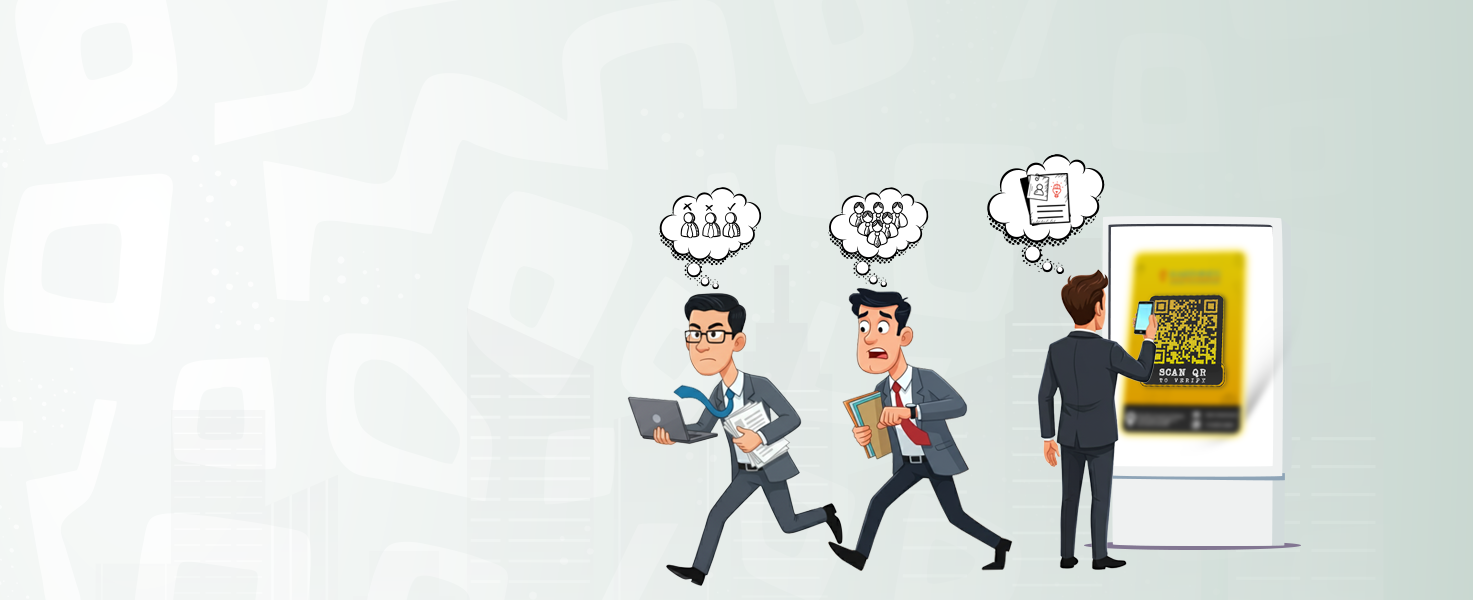
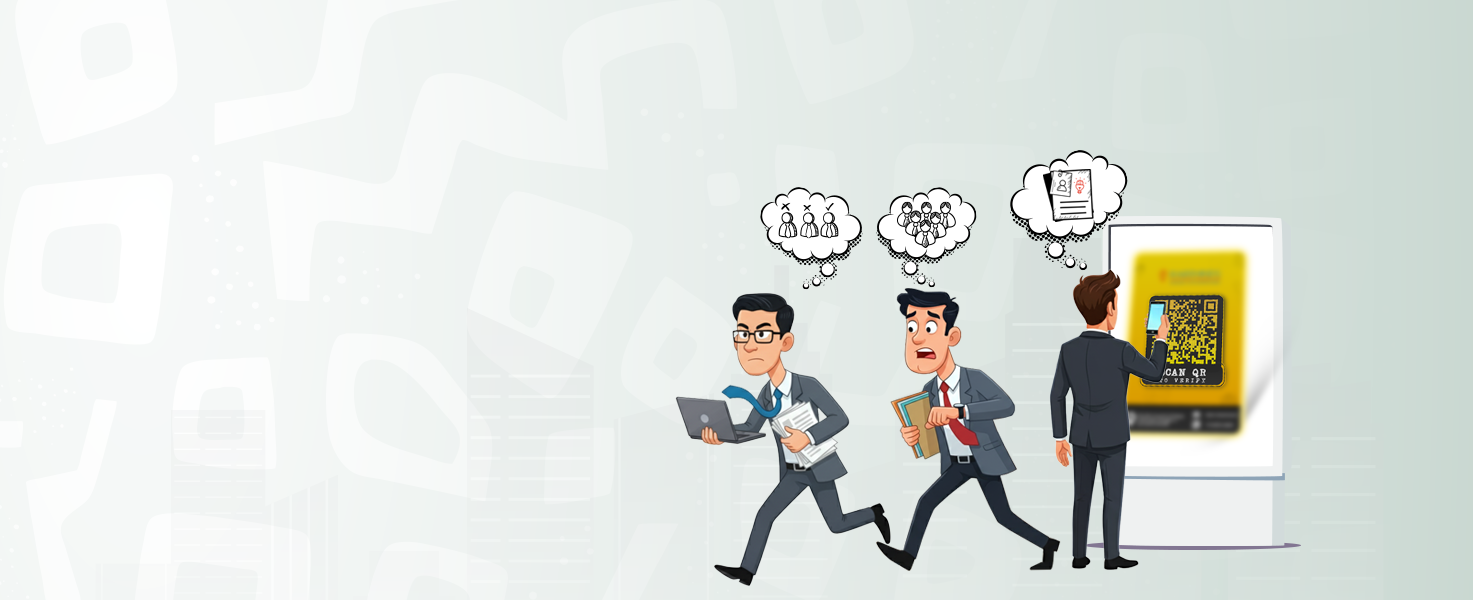
update WorkSection component with new images and layout adjustments

Changed region(s): [[0.406, 0.24, 0.8119, 0.99]]

diff --git a/src/pages/Corporate/Passport/components/WorkSection.tsx b/src/pages/Corporate/Passport/components/WorkSection.tsx
@@ -43,9 +43,8 @@ const StepBlock = ({
 
       {/* Text */}
       <div
-        className={`flex flex-col items-center text-center px-4 ${
-          reverse ? "md:order-2" : "md:order-1"
-        }`}
+        className={`flex flex-col items-center text-center px-4 ${reverse ? "md:order-2" : "md:order-1"
+          }`}
       >
         <h3 className="text-2xl md:text-3xl lg:text-4xl font-bold text-[#011938] mb-6">
           {title}
@@ -62,10 +61,10 @@ export default function WorkSection() {
   return (
     <section className="relative py-20">
       <div className="max-w-7xl mx-auto px-6 lg:px-12">
-         {/* Top Icon */}
+        {/* Top Icon */}
         <div className="flex justify-center mb-6">
           <div className="bg-[#000000] rounded-2xl w-12 h-12 flex items-center justify-center shadow-md">
-            <Workflow  className="text-white w-5 h-5" />
+            <Workflow className="text-white w-5 h-5" />
           </div>
         </div>
         {/* Heading */}
@@ -78,17 +77,38 @@ export default function WorkSection() {
           from learning to verification to employability.
         </p>
 
+        {/* SVG above Step 1 (only visible on md+) */}
+        <div className="hidden md:grid grid-cols-2 items-start md:-ml-8 lg:mr-[20px] lg:-mb-20 xl:-mb-28 md:pt-8 lg:pt-16">
+          <div className="flex justify-center">
+            <svg
+              width="63"
+              height="60"
+              viewBox="0 0 63 60"
+              fill="none"
+              xmlns="http://www.w3.org/2000/svg"
+              className="w-10 h-10 lg:w-12 lg:h-12"
+            >
+              <path d="M31.4439 59.7144C48.8099 59.7144 62.8879 46.3469 62.8879 29.8572C62.8879 13.3675 48.8099 0 31.4439 0C14.0779 0 0 13.3675 0 29.8572C0 46.3469 14.0779 59.7144 31.4439 59.7144Z" fill="black" />
+              <path d="M34.1951 24.5455V42H30.5047V28.0483H30.4025L26.4053 30.554V27.2812L30.7263 24.5455H34.1951Z" fill="white" />
+            </svg>
+          </div>
+          <div />
+        </div>
+
         {/* Step 1 */}
         <StepBlock
           title="Train & Assess"
           desc="Learners undergo structured training programs delivered by Rareminds or partner institutions. Each module includes industry-aligned assessments and project-based evaluations mapped to defined skill standards."
-          img={step1 as unknown as string}
+          img={step1}
         />
 
+
         {/* SVG 1: Between Step 1 & 2 */}
-        <div className="hidden md:flex justify-center md:-mt-10 lg:-mt-24">
-          <div className="relative w-full md:max-w-sm lg:max-w-xl">
-            <div style={{ paddingTop: `${(495 / 758) * 100}%` }} />
+        <div className="hidden md:flex justify-center md:-mt-5 lg:-mt-24">
+          <div className="relative mx-auto md:w-[450px] lg:w-[550px] xl:w-[650px]">
+            {/* Aspect ratio box */}
+            <div style={{ paddingTop: `71%` }} />
+
             <svg
               viewBox="0 0 758 495"
               fill="none"
@@ -97,48 +117,48 @@ export default function WorkSection() {
               className="absolute top-0 left-0 w-full h-full"
             >
               <path
-                d="M31.4439 59.7144C48.8099 59.7144 62.8879 46.3469 62.8879 29.8572C62.8879 13.3675 48.8099 0 31.4439 0C14.0779 0 0 13.3675 0 29.8572C0 46.3469 14.0779 59.7144 31.4439 59.7144Z"
-                fill="black"
-              />
-              <path
-                d="M34.1951 24.5455V42H30.5047V28.0483H30.4025L26.4053 30.554V27.2812L30.7263 24.5455H34.1951Z"
-                fill="white"
-              />
-              <path
-                d="M63 22.2507C87.203 10.9557 123.174 6.6091 161.12 57.3601C223.532 140.833 235.563 316.778 293.956 374.936C341.432 422.198 385.301 397.22 414.33 369.886C517.268 103.703 638.336 91.8267 701.415 291.647C707.944 312.339 715.131 337.929 722.046 370.957C729.716 407.627 734.718 442.247 738 469"
-                stroke="black"
-                strokeWidth="5"
-                strokeMiterlimit="10"
-                strokeDasharray="12 12"
-                vectorEffect="non-scaling-stroke"
-              />
-              <path
-                d="M744.742 492.637C751.227 492.637 756.483 487.346 756.483 480.819C756.483 474.291 751.227 469 744.742 469C738.257 469 733 474.291 733 480.819C733 487.346 738.257 492.637 744.742 492.637Z"
+                d="M13.7417 26.6373C20.2265 26.6373 25.4835 21.3459 25.4835 14.8186C25.4835 8.29139 20.2265 3 13.7417 3C7.25696 3 2 8.29139 2 14.8186C2 21.3459 7.25696 26.6373 13.7417 26.6373Z"
                 fill="white"
                 stroke="black"
                 strokeWidth="2.89"
                 strokeMiterlimit="10"
                 strokeDasharray="6.93 6.93"
-                vectorEffect="non-scaling-stroke"
+              />
+              <path
+                d="M700.444 516.714C717.81 516.714 731.888 503.347 731.888 486.857C731.888 470.368 717.81 457 700.444 457C683.078 457 669 470.368 669 486.857C669 503.347 683.078 516.714 700.444 516.714Z"
+                fill="black"
+              />
+              <path
+                d="M694.742 498.717V496.058L700.955 490.305C701.483 489.794 701.927 489.333 702.285 488.924C702.648 488.515 702.924 488.115 703.111 487.722C703.299 487.325 703.393 486.896 703.393 486.436C703.393 485.924 703.276 485.484 703.043 485.115C702.81 484.74 702.492 484.453 702.089 484.254C701.685 484.049 701.228 483.947 700.716 483.947C700.182 483.947 699.716 484.055 699.319 484.271C698.921 484.487 698.614 484.796 698.398 485.2C698.182 485.603 698.074 486.083 698.074 486.64H694.572C694.572 485.498 694.83 484.507 695.347 483.666C695.864 482.825 696.589 482.174 697.52 481.714C698.452 481.254 699.526 481.024 700.742 481.024C701.992 481.024 703.08 481.245 704.006 481.688C704.938 482.126 705.662 482.734 706.179 483.512C706.697 484.291 706.955 485.183 706.955 486.188C706.955 486.847 706.824 487.498 706.563 488.14C706.307 488.782 705.85 489.495 705.191 490.279C704.532 491.058 703.603 491.992 702.404 493.083L699.856 495.58V495.7H707.185V498.717H694.742Z"
+                fill="white"
+              />
+              <path
+                d="M25 10.2507C49.203 -1.0443 85.1741 -5.3909 123.12 45.3601C185.532 128.833 197.563 304.778 255.956 362.936C303.432 410.198 347.301 385.22 376.33 357.886C479.268 91.7033 600.336 79.8267 663.415 279.647C669.944 300.339 677.131 325.929 684.046 358.957C691.716 395.627 696.718 430.247 700 457"
+                stroke="black"
+                strokeWidth="5"
+                strokeMiterlimit="10"
+                strokeDasharray="12 12"
               />
             </svg>
           </div>
         </div>
 
-        <div className="mt-20 md:mt-0 lg:-mt-16">
+
+        <div className="mt-20 md:mt-2 lg:-mt-12">
           {/* Step 2 */}
           <StepBlock
             title="Capture & Validate"
             desc="Every demonstrated skill is captured and validated through performance data, mentor reviews, and digital assessments. Rareminds' verification engine ensures each skill badge is authentic, traceable, and backed by evidence — no manual intervention or paper certificates needed."
-            img={step2 as unknown as string}
+            img={step2}
             reverse
           />
         </div>
 
         {/* SVG 2: Between Step 2 & 3 */}
         <div className="hidden md:flex justify-center md:-mt-0 lg:-mt-20">
-          <div className="relative w-full md:max-w-sm lg:max-w-xl">
-            <div style={{ paddingTop: `${(491 / 756) * 100}%` }} />
+          <div className="relative mx-auto md:w-[450px] lg:w-[550px] xl:w-[650px]">
+            {/* Aspect ratio box */}
+            <div style={{ paddingTop: `71%` }} />
             <svg
               viewBox="0 0 756 491"
               fill="none"
@@ -146,32 +166,12 @@ export default function WorkSection() {
               preserveAspectRatio="xMidYMid meet"
               className="absolute top-0 left-0 w-full h-full"
             >
-              <path
-                d="M13.7417 488.637C20.2265 488.637 25.4835 483.346 25.4835 476.819C25.4835 470.291 20.2265 465 13.7417 465C7.25696 465 2 470.291 2 476.819C2 483.346 7.25696 488.637 13.7417 488.637Z"
-                fill="white"
-                stroke="black"
-                strokeWidth="2.89"
-                strokeMiterlimit="10"
-                strokeDasharray="6.93 6.93"
-                vectorEffect="non-scaling-stroke"
-              />
-              <path
-                d="M693 18.2507C668.797 6.9557 632.826 2.6091 594.88 53.3601C532.468 136.833 520.437 312.778 462.044 370.936C414.568 418.198 370.699 393.22 341.67 365.886C238.732 99.7033 117.664 87.8267 54.5854 287.647C48.0564 308.339 40.8692 333.929 33.954 366.957C26.2841 403.627 21.2821 438.247 18 465"
-                stroke="black"
-                strokeWidth="5"
-                strokeMiterlimit="10"
-                strokeDasharray="12 12"
-                vectorEffect="non-scaling-stroke"
-              />
-              <path
-                d="M724.444 59.7144C741.81 59.7144 755.888 46.3469 755.888 29.8572C755.888 13.3675 741.81 0 724.444 0C707.078 0 693 13.3675 693 29.8572C693 46.3469 707.078 59.7144 724.444 59.7144Z"
-                fill="black"
-              />
-              <path
-                d="M718.742 41.7168V39.0577L724.955 33.3049C725.483 32.7935 725.927 32.3333 726.285 31.9242C726.648 31.5151 726.924 31.1145 727.111 30.7225C727.299 30.3248 727.393 29.8958 727.393 29.4355C727.393 28.9242 727.276 28.4838 727.043 28.1145C726.81 27.7395 726.492 27.4526 726.089 27.2537C725.685 27.0492 725.228 26.9469 724.716 26.9469C724.182 26.9469 723.716 27.0549 723.319 27.2708C722.921 27.4867 722.614 27.7963 722.398 28.1998C722.182 28.6032 722.074 29.0833 722.074 29.6401H718.572C718.572 28.498 718.83 27.5066 719.347 26.6657C719.864 25.8248 720.589 25.1742 721.52 24.714C722.452 24.2537 723.526 24.0236 724.742 24.0236C725.992 24.0236 727.08 24.2452 728.006 24.6884C728.938 25.1259 729.662 25.7338 730.179 26.5123C730.697 27.2907 730.955 28.1827 730.955 29.1884C730.955 29.8475 730.824 30.498 730.563 31.1401C730.307 31.7821 729.85 32.4952 729.191 33.2793C728.532 34.0577 727.603 34.9924 726.404 36.0833L723.856 38.5804V38.6998H731.185V41.7168H718.742Z"
-                fill="white"
-              />
+              <path d="M714 10.2507C689.797 -1.0443 653.826 -5.3909 615.88 45.3601C553.468 128.833 541.437 304.778 483.044 362.936C435.568 410.198 391.699 385.22 362.67 357.886C259.732 91.7033 138.664 79.8267 75.5854 279.647C69.0564 300.339 61.8692 325.929 54.954 358.957C47.2841 395.627 42.2821 430.247 39 457" stroke="black" stroke-width="5" stroke-miterlimit="10" stroke-dasharray="12 12" />
+              <path d="M31.4439 505.714C48.8099 505.714 62.8879 492.347 62.8879 475.857C62.8879 459.368 48.8099 446 31.4439 446C14.0779 446 0 459.368 0 475.857C0 492.347 14.0779 505.714 31.4439 505.714Z" fill="black" />
+              <path d="M31.014 488.239C29.7412 488.239 28.6077 488.02 27.6134 487.582C26.6248 487.139 25.8435 486.531 25.2697 485.759C24.7015 484.98 24.4089 484.082 24.3918 483.065H28.1077C28.1305 483.491 28.2697 483.866 28.5253 484.19C28.7867 484.509 29.1333 484.756 29.5651 484.932C29.9969 485.108 30.4827 485.196 31.0225 485.196C31.585 485.196 32.0822 485.097 32.514 484.898C32.9458 484.699 33.2839 484.423 33.5282 484.071C33.7725 483.719 33.8947 483.312 33.8947 482.852C33.8947 482.386 33.764 481.974 33.5026 481.616C33.2469 481.253 32.8776 480.969 32.3947 480.764C31.9174 480.56 31.3492 480.457 30.6901 480.457H29.0623V477.747H30.6901C31.2469 477.747 31.7384 477.651 32.1645 477.457C32.5964 477.264 32.9316 476.997 33.1702 476.656C33.4089 476.31 33.5282 475.906 33.5282 475.446C33.5282 475.009 33.4231 474.625 33.2128 474.295C33.0083 473.96 32.7185 473.699 32.3435 473.511C31.9742 473.324 31.5424 473.23 31.0481 473.23C30.5481 473.23 30.0907 473.321 29.6759 473.503C29.2611 473.679 28.9287 473.932 28.6787 474.261C28.4287 474.591 28.2952 474.977 28.2782 475.42H24.7412C24.7583 474.415 25.0452 473.528 25.602 472.761C26.1589 471.994 26.9089 471.395 27.852 470.963C28.8009 470.526 29.8719 470.307 31.0651 470.307C32.2697 470.307 33.3236 470.526 34.227 470.963C35.1305 471.401 35.8322 471.991 36.3322 472.736C36.8378 473.474 37.0878 474.304 37.0822 475.224C37.0878 476.202 36.7839 477.017 36.1702 477.67C35.5623 478.324 34.7697 478.739 33.7924 478.915V479.051C35.0765 479.216 36.0537 479.662 36.7242 480.389C37.4003 481.111 37.7356 482.014 37.7299 483.099C37.7356 484.094 37.4486 484.977 36.8691 485.75C36.2952 486.523 35.5026 487.131 34.4912 487.574C33.4799 488.017 32.3208 488.239 31.014 488.239Z" fill="white" />
+              <path d="M725.742 26.6373C732.227 26.6373 737.483 21.3459 737.483 14.8186C737.483 8.29139 732.227 3 725.742 3C719.257 3 714 8.29139 714 14.8186C714 21.3459 719.257 26.6373 725.742 26.6373Z" fill="white" stroke="black" stroke-width="2.89" stroke-miterlimit="10" stroke-dasharray="6.93 6.93" />
             </svg>
+
           </div>
         </div>
 
@@ -180,85 +180,43 @@ export default function WorkSection() {
           <StepBlock
             title="Issue The Skill Passport"
             desc="Once validated, each learner receives a digital Skill Passport — a dynamic portfolio of verified skills, competencies, and projects. This Passport becomes proof of capability, accessible anytime, anywhere — for hiring, internship, or advancement."
-            img={step3 as unknown as string}
+            img={step3}
           />
         </div>
 
         {/* SVG 3: Between Step 3 & 4 */}
-        <div className="hidden md:flex justify-center md:-mt-4 lg:-mt-28">
-          <div className="relative w-full md:max-w-sm lg:max-w-xl">
-            <div style={{ paddingTop: `${(486 / 751) * 100}%` }} />
+        <div className="hidden md:flex justify-center md:-mt-4 lg:-mt-24 xl:-mt-28">
+          <div className="relative mx-auto md:w-[450px] lg:w-[550px] xl:w-[650px]">
+            {/* Aspect ratio box */}
+            <div style={{ paddingTop: `70%` }} />
             <svg
-              viewBox="0 0 751 486"
+              viewBox="0 0 766 520"
               fill="none"
               xmlns="http://www.w3.org/2000/svg"
               preserveAspectRatio="xMidYMid meet"
               className="absolute top-0 left-0 w-full h-full"
             >
-              <path
-                d="M737.742 483.637C744.227 483.637 749.483 478.346 749.483 471.819C749.483 465.291 744.227 460 737.742 460C731.257 460 726 465.291 726 471.819C726 478.346 731.257 483.637 737.742 483.637Z"
-                fill="white"
-                stroke="black"
-                strokeWidth="2.89"
-                strokeMiterlimit="10"
-                strokeDasharray="6.93 6.93"
-                vectorEffect="non-scaling-stroke"
-              />
-              <path
-                d="M63 13.2507C87.203 1.9557 123.174 -2.3909 161.12 48.3601C223.532 131.833 235.563 307.778 293.956 365.936C341.432 413.198 385.301 388.22 414.33 360.886C517.268 94.7033 638.336 82.8267 701.415 282.647C707.944 303.339 715.131 328.929 722.046 361.957C729.716 398.627 734.718 433.247 738 460"
-                stroke="black"
-                strokeWidth="5"
-                strokeMiterlimit="10"
-                strokeDasharray="12 12"
-                vectorEffect="non-scaling-stroke"
-              />
-              <path
-                d="M31.4439 59.7144C48.8099 59.7144 62.8879 46.3469 62.8879 29.8572C62.8879 13.3675 48.8099 0 31.4439 0C14.0779 0 0 13.3675 0 29.8572C0 46.3469 14.0779 59.7144 31.4439 59.7144Z"
-                fill="black"
-              />
-              <path
-                d="M31.8421 41.9554C30.5694 41.9554 29.4359 41.7367 28.4415 41.2992C27.4529 40.856 26.6716 40.248 26.0978 39.4753C25.5296 38.6969 25.237 37.7992 25.2199 36.7821H28.9359C28.9586 37.2083 29.0978 37.5833 29.3535 37.9071C29.6148 38.2253 29.9614 38.4725 30.3932 38.6486C30.8251 38.8248 31.3109 38.9128 31.8506 38.9128C32.4131 38.9128 32.9103 38.8134 33.3421 38.6145C33.7739 38.4157 34.112 38.1401 34.3563 37.7878C34.6006 37.4355 34.7228 37.0293 34.7228 36.5691C34.7228 36.1032 34.5921 35.6912 34.3307 35.3333C34.0751 34.9696 33.7057 34.6855 33.2228 34.481C32.7455 34.2765 32.1773 34.1742 31.5182 34.1742H29.8904V31.464H31.5182C32.0751 31.464 32.5665 31.3674 32.9927 31.1742C33.4245 30.981 33.7597 30.714 33.9984 30.373C34.237 30.0265 34.3563 29.623 34.3563 29.1628C34.3563 28.7253 34.2512 28.3418 34.041 28.0123C33.8364 27.677 33.5466 27.4157 33.1716 27.2282C32.8023 27.0407 32.3705 26.9469 31.8762 26.9469C31.3762 26.9469 30.9188 27.0378 30.504 27.2196C30.0893 27.3958 29.7569 27.6486 29.5069 27.9782C29.2569 28.3077 29.1234 28.6941 29.1063 29.1373H25.5694C25.5864 28.1316 25.8734 27.2452 26.4302 26.4782C26.987 25.7111 27.737 25.1117 28.6802 24.6799C29.629 24.2424 30.7001 24.0236 31.8932 24.0236C33.0978 24.0236 34.1518 24.2424 35.0552 24.6799C35.9586 25.1174 36.6603 25.7083 37.1603 26.4526C37.666 27.1912 37.916 28.0208 37.9103 28.9412C37.916 29.9185 37.612 30.7338 36.9984 31.3873C36.3904 32.0407 35.5978 32.4554 34.6205 32.6316V32.7679C35.9046 32.9327 36.8819 33.3787 37.5523 34.106C38.2285 34.8276 38.5637 35.731 38.558 36.8162C38.5637 37.8105 38.2768 38.6941 37.6972 39.4668C37.1234 40.2395 36.3307 40.8475 35.3194 41.2907C34.308 41.7338 33.1489 41.9554 31.8421 41.9554Z"
-                fill="white"
-              />
+              <path d="M13.7417 26.6373C20.2265 26.6373 25.4835 21.3459 25.4835 14.8186C25.4835 8.29139 20.2265 3 13.7417 3C7.25696 3 2 8.29139 2 14.8186C2 21.3459 7.25696 26.6373 13.7417 26.6373Z" fill="white" stroke="black" stroke-width="2.89" stroke-miterlimit="10" stroke-dasharray="6.93 6.93" />
+              <path d="M25 10.2507C50.3504 -1.0443 88.0268 -5.3909 127.771 45.3601C193.142 128.833 205.744 304.778 266.905 362.936C316.631 410.198 362.58 385.22 392.986 357.886C500.804 91.7033 627.611 79.8267 693.68 279.647C700.519 300.339 708.047 325.929 715.29 358.957C723.323 395.627 728.562 430.247 732 457" stroke="black" stroke-width="5" stroke-miterlimit="10" stroke-dasharray="12 12" />
+              <path d="M732.444 511.714C749.81 511.714 763.888 498.347 763.888 481.857C763.888 465.368 749.81 452 732.444 452C715.078 452 701 465.368 701 481.857C701 498.347 715.078 511.714 732.444 511.714Z" fill="black" />
+              <path d="M725.904 490.649V487.742L733.19 476.262H735.696V480.285H734.213L729.619 487.555V487.691H739.975V490.649H725.904ZM734.281 493.717V489.762L734.35 488.475V476.262H737.81V493.717H734.281Z" fill="white" />
             </svg>
+
           </div>
         </div>
 
-        <div className="mt-20 md:mt-0 lg:-mt-16">
+        <div className="mt-20 md:mt-0 lg:-mt-20">
           {/* Step 4 */}
           <StepBlock
             title="Analyze & Apply"
             desc="Organizations get access to real-time dashboards showing skill gaps, strengths, and team readiness. Use this intelligence to measure training ROI, optimize workforce planning, and align learning outcomes with business goals."
-            img={step4 as unknown as string}
+            img={step4}
             reverse
           />
         </div>
 
-        {/* SVG 4: After Step 4 */}
-        <div className="justify-end hidden md:flex sm:-mt-0 md:-mt-0 lg:-mt-24">
-          <div className="relative w-full max-w-[63px] md:max-w-[40px] lg:max-w-[50px] mr-56 md:mr-36 lg:mr-[12rem] xl:mr-56">
-            <div style={{ paddingTop: `${(60 / 63) * 100}%` }} />
-            <svg
-              viewBox="0 0 63 60"
-              fill="none"
-              xmlns="http://www.w3.org/2000/svg"
-              preserveAspectRatio="xMidYMid meet"
-              className="absolute top-0 left-0 w-full h-full"
-            >
-              <path
-                d="M31.4439 59.7144C48.8099 59.7144 62.8879 46.3469 62.8879 29.8572C62.8879 13.3675 48.8099 0 31.4439 0C14.0779 0 0 13.3675 0 29.8572C0 46.3469 14.0779 59.7144 31.4439 59.7144Z"
-                fill="black"
-              />
-              <path
-                d="M24.9035 38.6486V35.7424L32.1905 24.2623H34.6961V28.285H33.2132L28.6194 35.5549V35.6912H38.9746V38.6486H24.9035ZM33.2814 41.7168V37.7623L33.3496 36.4753V24.2623H36.8098V41.7168H33.2814Z"
-                fill="white"
-              />
-            </svg>
-          </div>
-        </div>
-
         {/* Footer Note */}
-        <p className="text-center text-black/80 italic tracking-tight mt-16 lg:mt-36 text-sm md:text-base">
+        <p className="text-center text-black/80 italic tracking-tight mt-16 text-sm md:text-base">
           From training to transformation — Skill Passport makes every skill count.
         </p>
       </div>
